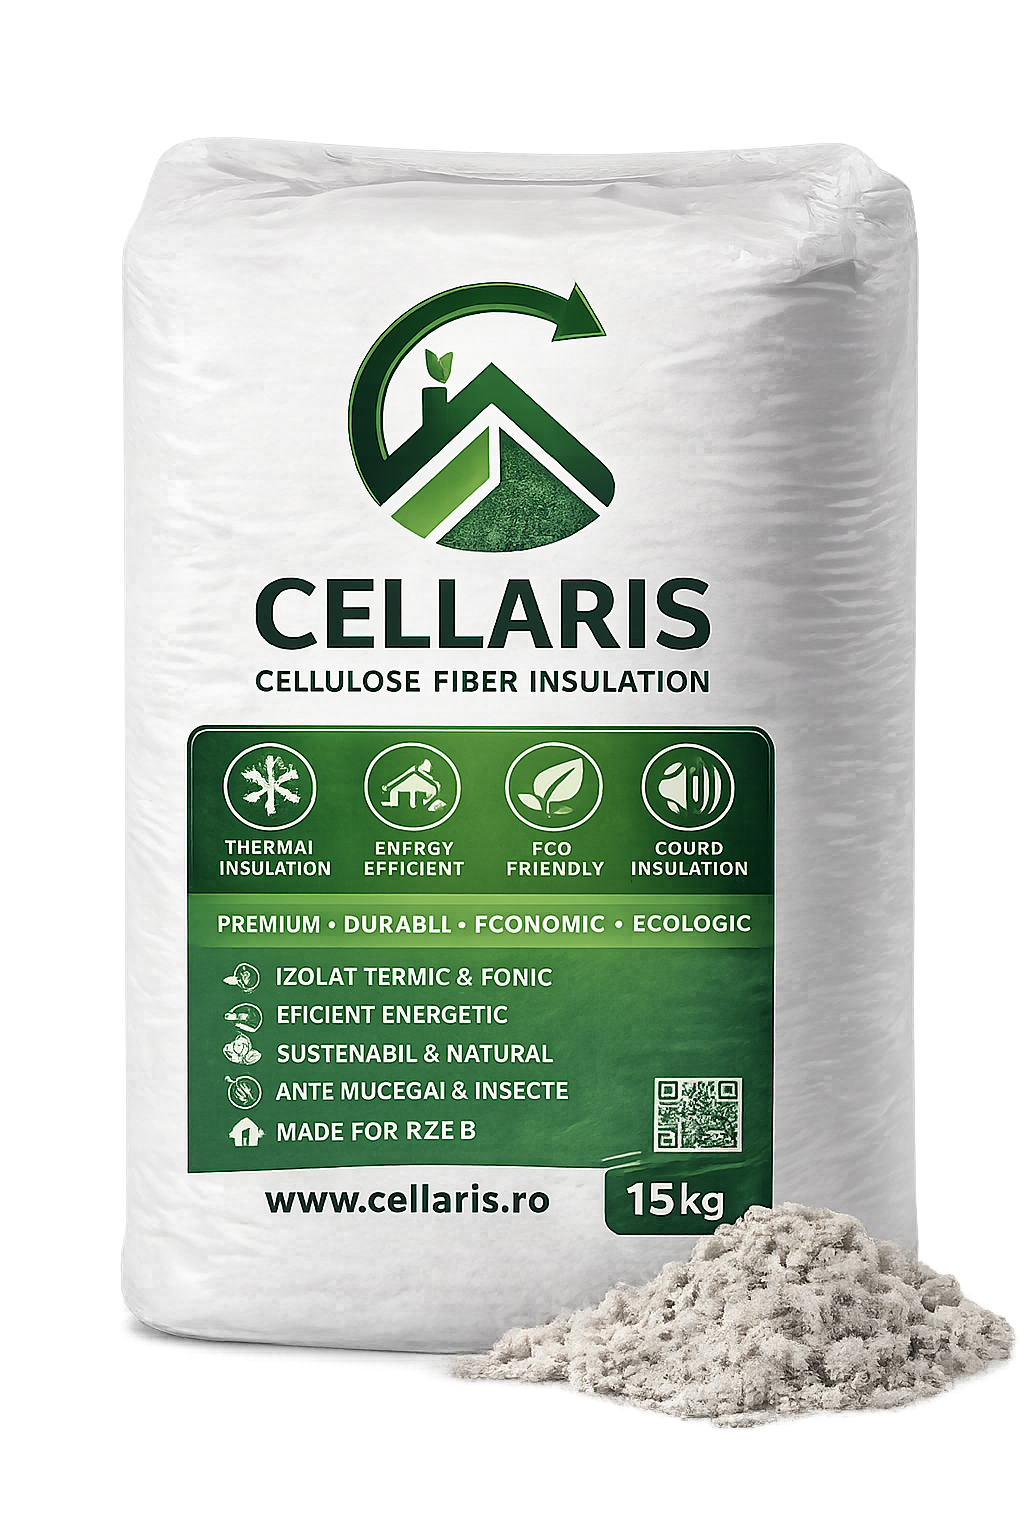
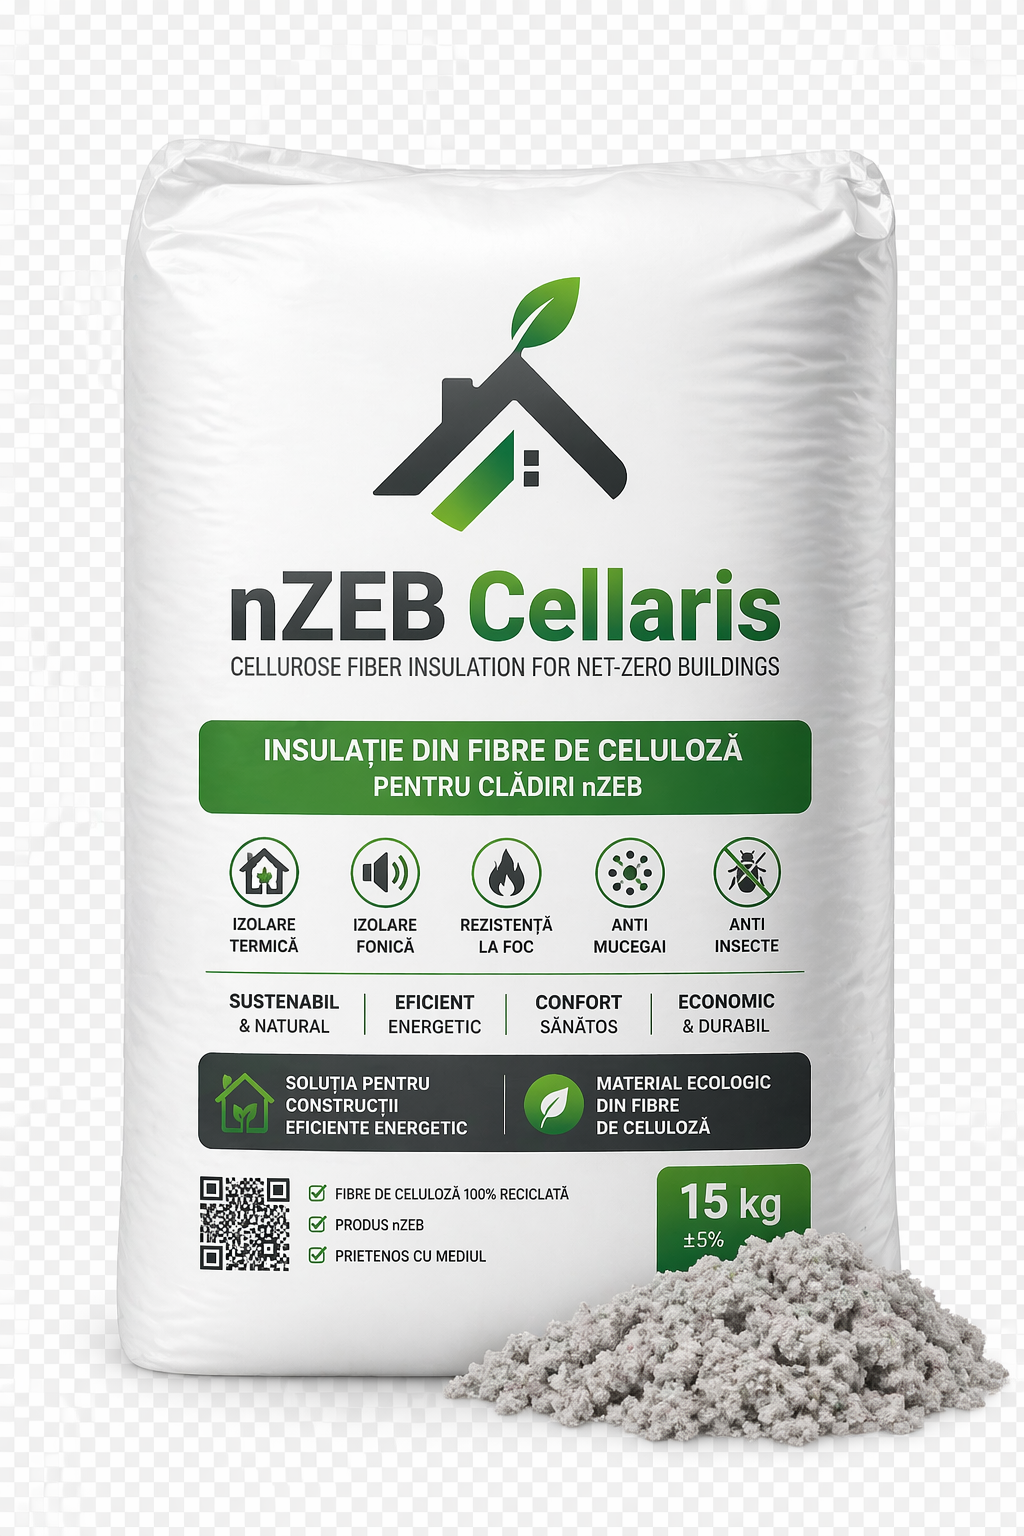
Replace product bag with nZEB Cellaris version (transparent PNG)

diff --git a/css/style.css b/css/style.css
@@ -427,7 +427,8 @@ button, input, select, textarea { font: inherit; }
   object-fit: contain;
   object-position: center bottom;
   border-radius: inherit;
-  padding: 1rem 1.5rem 0;
+  padding: 0.5rem 1rem 0;
+  filter: drop-shadow(0 8px 32px rgba(0,0,0,.35));
 }
 
 /* Bottom badge overlay */
